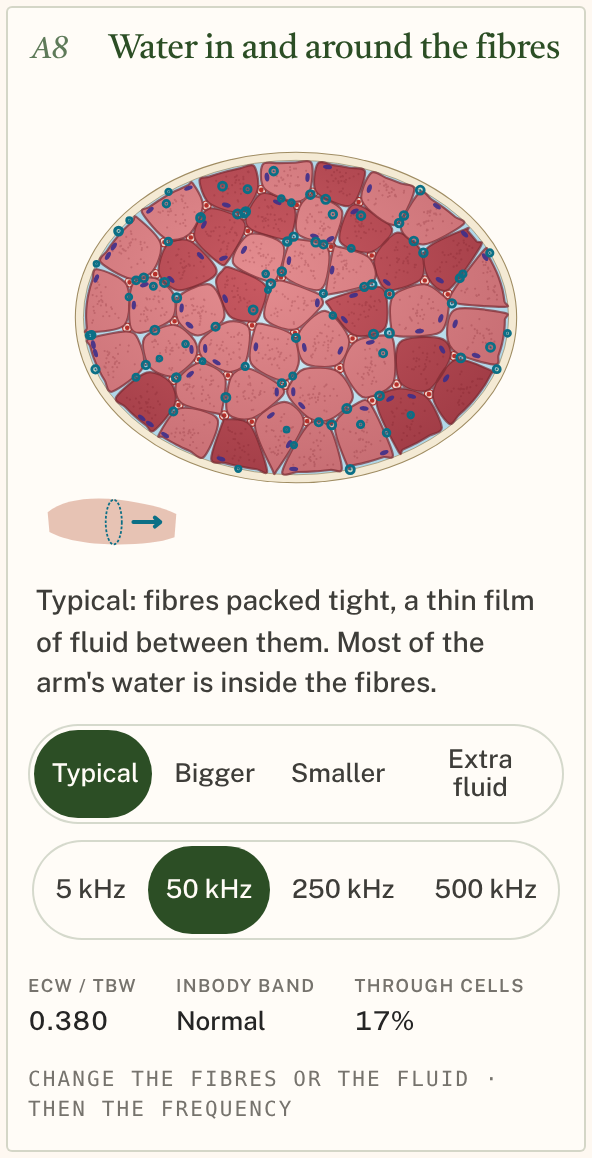
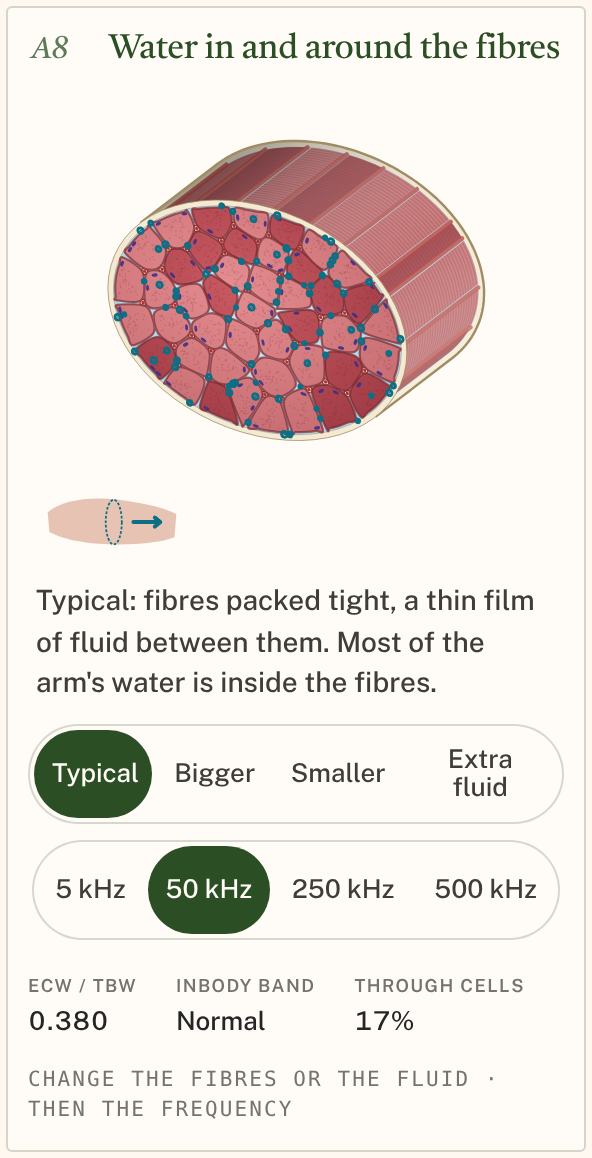
A8: slice becomes the face of a 3-D muscle bundle
The cross-section is mapped onto the front of an elliptic cylinder
(azimuth 62, elevation 24, as A3b). The browser draws the body from the
projection basis in DATA.body, so it follows the scenes: sheath, fluid,
outer fibres running back with cross-striations, capillaries in the
grooves, cylinder shade. Both themes, 320 px, fluid scene verified.

Claude-Session: https://claude.ai/code/session_01BGndyyGpXNQbxpF4TgwG4g

Changed region(s): [[0.1216, 0.0933, 0.8818, 0.4352]]

diff --git a/figures/a8-muscle-water/live.js b/figures/a8-muscle-water/live.js
@@ -75,6 +75,62 @@ function mount(fig) {
       set(part, "rx", f1(DATA.RX * g.spread + pad));
       set(part, "ry", f1(DATA.RY * g.spread + pad));
     }
+    drawBody();
+  }
+  // the 3-D bundle behind the slice: sheath, fluid, the outer fibres running back with their
+  // cross-striations, capillaries in the grooves, a cylinder shade
+  const B = DATA.body;
+  function drawBody() {
+    if (!B) return;
+    const P = (sx, y, sy) => [B.o[0] + sx * B.ex[0] + y * B.ey[0] + (B.H - sy) * B.ez[0], B.o[1] + sx * B.ex[1] + y * B.ey[1] + (B.H - sy) * B.ez[1]];
+    const R = (t, pad, y) => P(C[0] + Math.cos(t) * (DATA.RX * g.spread + pad), y, C[1] + Math.sin(t) * (DATA.RY * g.spread + pad));
+    const L = (p, c = "L") => `${c}${f1(p[0])} ${f1(p[1])}`;
+    const steps = (t0, t1) => {
+      const n = Math.max(1, Math.ceil((t1 - t0) / 0.05));
+      return Array.from({ length: n + 1 }, (_, i) => t0 + ((t1 - t0) * i) / n);
+    };
+    const band = (t0, t1, pad) => {
+      const ts = steps(t0, t1);
+      return ts.map((t, i) => L(R(t, pad, B.D), i ? "L" : "M")).join("") + [...ts].reverse().map((t) => L(R(t, pad, 0))).join("") + "Z";
+    };
+    const clampT = (t) => Math.max(B.ta, Math.min(B.tb, t < B.ta - 1 ? t + 2 * Math.PI : t));
+    const all = band(B.ta, B.tb, 9);
+    set("bodySheath", "d", all);
+    set("bodyVeil", "d", all);
+    set("bodyShade", "d", all);
+    set("bodyGap", "d", band(B.ta, B.tb, 0));
+    let f1d = "", f2d = "", stri = "", cap = "";
+    for (const s of B.spans) {
+      const m = (s.a0 + s.a1) / 2;
+      const h = ((s.a1 - s.a0) / 2) * BASE * g.fibre / g.spread; // fibre share of its cell, as on the face
+      const t0 = clampT(m - h);
+      const t1 = clampT(m + h);
+      if (t1 - t0 < 0.01) continue;
+      const d = band(t0, t1, -0.5);
+      if (s.type === 1) f1d += d;
+      else f2d += d;
+      for (let y = 5; y < B.D; y += 8) stri += steps(t0, t1).map((t, i) => L(R(t, -0.5, y), i ? "L" : "M")).join("");
+      const tc = clampT(s.a1);
+      if (tc > B.ta + 0.04 && tc < B.tb - 0.04) cap += L(R(tc, 0.6, B.D - 2), "M") + L(R(tc, 0.6, 2));
+    }
+    set("bodyF1", "d", f1d);
+    set("bodyF2", "d", f2d);
+    set("bodyStri", "d", stri);
+    set("bodyCap", "d", cap);
+    set("bodyEdge", "d", L(R(B.ta, 9, B.D), "M") + steps(B.ta, B.tb).map((t) => L(R(t, 9, 0))).join("") + L(R(B.tb, 9, B.D)));
+    // the shade runs across the body, square to its axis
+    const n = [-B.ey[1], B.ey[0]];
+    const len = Math.hypot(...n);
+    const u = [n[0] / len, n[1] / len];
+    const pts = steps(B.ta, B.tb).flatMap((t) => [R(t, 9, 0), R(t, 9, B.D)]);
+    const dots = pts.map((p) => p[0] * u[0] + p[1] * u[1]);
+    const lo = pts[dots.indexOf(Math.min(...dots))];
+    const span = Math.max(...dots) - Math.min(...dots);
+    const grad = svg.querySelector("#a8-cyl");
+    grad.setAttribute("x1", f1(lo[0]));
+    grad.setAttribute("y1", f1(lo[1]));
+    grad.setAttribute("x2", f1(lo[0] + u[0] * span));
+    grad.setAttribute("y2", f1(lo[1] + u[1] * span));
   }
   function spawn(inside) {
     if (inside) {

diff --git a/figures/a8-muscle-water/figure.css b/figures/a8-muscle-water/figure.css
@@ -39,3 +39,13 @@
 .a8-par { display: block; margin-top: 6px; }
 .a8-par:first-child { margin-top: 0; }
 .a8-par small { font-size: 12.5px; color: var(--anatomy-muted); }
+/* the 3-D bundle behind the slice */
+.a8-body-sheath { fill: var(--a8-peri); }
+.a8-body-gap { fill: var(--a8-e1); }
+.a8-body-f1 { fill: var(--a8-f1b); }
+.a8-body-f2 { fill: var(--a8-f2b); }
+.a8-body-stri { fill: none; stroke: var(--a8-fib-edge); stroke-width: 0.6; opacity: 0.3; }
+.a8-body-cap { fill: none; stroke: var(--a8-capl); stroke-width: 2.2; stroke-linecap: round; opacity: 0.8; }
+.a8-body-veil { fill: var(--a8-peri); opacity: 0.14; }
+.a8-body-edge { fill: none; stroke: var(--a8-peri-edge); stroke-width: 1.2; stroke-linejoin: round; }
+.a8-g0 { stop-color: #fff; stop-opacity: 0.2; } .a8-g1 { stop-color: #fff; stop-opacity: 0; } .a8-g2 { stop-color: #000; stop-opacity: 0.34; }

diff --git a/figures/a8-muscle-water/NOTES.md b/figures/a8-muscle-water/NOTES.md
@@ -55,3 +55,15 @@
 1. **Placement:** under Fig 2, as "what ECW/TBW is measuring".
 2. **The model's two LOW numbers** (muscle ≈ half of body water; muscle water 16 % extracellular) are textbook-level. Worth a source check before the scene values (0.369–0.413) appear on a page; the direction of each shift is solid.
 3. **Wording** of the "Extra fluid" scene: deliberately not called oedema or inflammation (no diagnosis).
+
+## Round 2 (2026-10-12): 3-D bundle
+Peter approved the isometric look (A3b), so the slice is now the front face of a 3-D fascicle. The bundle is an elliptic cylinder running back into the arm, at the same projection as A3b (azimuth 62°, elevation 24°).
+- **Front face:** the original slice, unchanged, placed with `planeMatrix`. All the live drawing (fibres, fluid, capillaries, ⊙ current) still happens in section coordinates.
+- **Body:** drawn in the browser by `drawBody()` in live.js, from the projection basis in `DATA.body`, so it swells and shrinks with the scenes (`g.spread`). It shows:
+  - the sheath (perimysium);
+  - the fluid;
+  - the outer fibres running back as bands at the same angles as the face's edge fibres, with fine cross-striations;
+  - capillaries in the grooves;
+  - a cylinder shade square to the axis.
+- **Visibility:** only the half of the cylinder facing the viewer is drawn (`DATA.body.ta`–`tb`, from the view vector). That half doesn't depend on the spread, because RX and RY scale together.
+- **Verified:** both themes; 320 px; Extra fluid scene; console clean; line ends 0.
